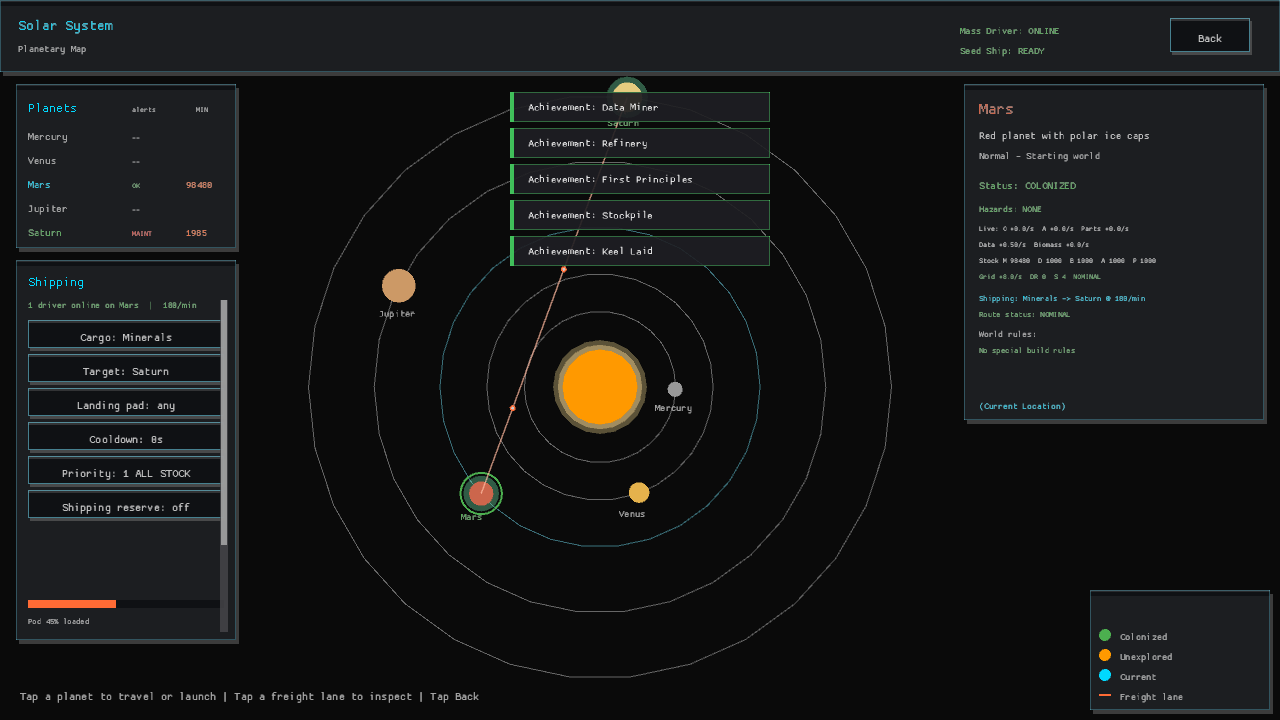
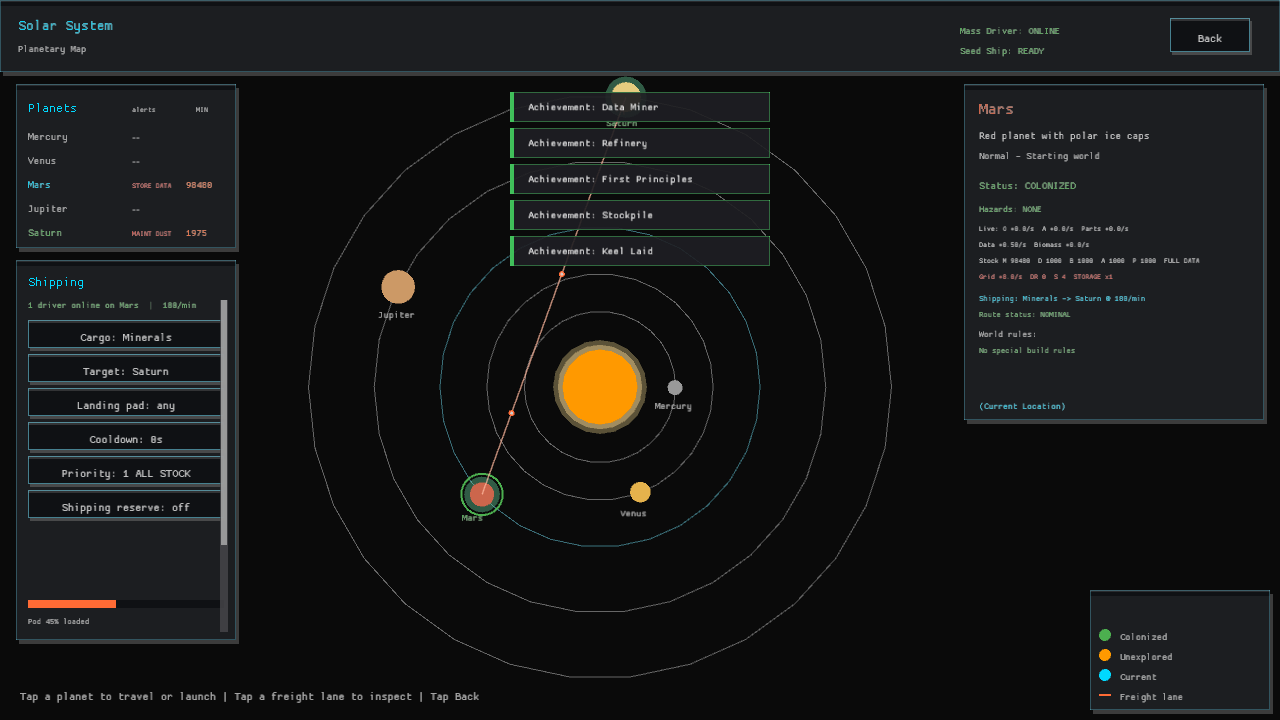
The swarm names what is wearing down a living world (remote maintenance diagnostics)
Remote world rows previously reported only MAINT, leaving the player to open each dossier to learn whether dust or corrosion was the problem. The campaign now carries an `UpkeepAlertCause` alongside `WorldTelemetry`, using the same thresholds as actionable upkeep positions and distinguishing dust, acid, or mixed wear.

The interplanetary list and dossier render `MAINT DUST`, `MAINT ACID`, or `MAINT MIXED`, with the old generic text retained for incomplete snapshots. Focused state, campaign, and map tests cover the classifications and labels; the interplanetary verification capture was refreshed and Preview was published for Windows and WebGL.

diff --git a/src/screens/interplanetary_view/world_dossier.rs b/src/screens/interplanetary_view/world_dossier.rs
@@ -1,7 +1,7 @@
 //! World dossier details shared by the desktop map and portrait map.
 
 use crate::engine::ResourceType;
-use crate::state::{cargo_name, ExportOrder, WorldAlert, WorldTelemetry};
+use crate::state::{cargo_name, ExportOrder, UpkeepAlertCause, WorldAlert, WorldTelemetry};
 use crate::ui::Colors;
 use macroquad::prelude::*;
 use macroquad_toolkit::ui::draw_ui_text;
@@ -52,6 +52,10 @@ pub(super) fn storage_resource_label(resource: Option<ResourceType>) -> Option<&
     }
 }
 
+pub(super) fn maintenance_cause_label(cause: Option<UpkeepAlertCause>) -> Option<&'static str> {
+    cause.map(UpkeepAlertCause::label)
+}
+
 pub(super) fn draw_world_telemetry(telemetry: &WorldTelemetry, x: f32, y: f32) {
     let storage_suffix = storage_resource_label(telemetry.storage_full_resource)
         .map(|label| format!("  FULL {label}"))
@@ -94,8 +98,20 @@ pub(super) fn draw_world_telemetry(telemetry: &WorldTelemetry, x: f32, y: f32) {
     let health = if telemetry.alerts == 0 {
         (WorldAlert::Nominal.label().to_string(), Colors::SUCCESS)
     } else {
+        let detail = if telemetry.alert_kind == WorldAlert::Maintenance {
+            maintenance_cause_label(telemetry.maintenance_cause)
+                .map(|cause| format!(" {cause}"))
+                .unwrap_or_default()
+        } else {
+            String::new()
+        };
         (
-            format!("{} x{}", telemetry.alert_kind.label(), telemetry.alerts),
+            format!(
+                "{}{} x{}",
+                telemetry.alert_kind.label(),
+                detail,
+                telemetry.alerts
+            ),
             Colors::ERROR,
         )
     };
@@ -116,22 +132,19 @@ pub(super) fn world_alert_code(telemetry: Option<WorldTelemetry>) -> String {
         return "--".to_string();
     };
     let code = match telemetry.alert_kind {
-        WorldAlert::Nominal => "OK",
-        WorldAlert::Collapse => "COLL",
-        WorldAlert::Power => "PWR",
-        WorldAlert::Hibernation => "SLEEP",
-        WorldAlert::Stalled => "STALL",
-        WorldAlert::Starved => "INPUT",
-        WorldAlert::Blocked => "FULL",
-        WorldAlert::Storage => "STORE",
-        WorldAlert::Maintenance => "MAINT",
-    };
-    let code = if telemetry.alert_kind == WorldAlert::Storage {
-        storage_resource_label(telemetry.storage_full_resource)
-            .map(|label| format!("{code} {label}"))
-            .unwrap_or_else(|| code.to_string())
-    } else {
-        code.to_string()
+        WorldAlert::Nominal => "OK".to_string(),
+        WorldAlert::Collapse => "COLL".to_string(),
+        WorldAlert::Power => "PWR".to_string(),
+        WorldAlert::Hibernation => "SLEEP".to_string(),
+        WorldAlert::Stalled => "STALL".to_string(),
+        WorldAlert::Starved => "INPUT".to_string(),
+        WorldAlert::Blocked => "FULL".to_string(),
+        WorldAlert::Storage => storage_resource_label(telemetry.storage_full_resource)
+            .map(|label| format!("STORE {label}"))
+            .unwrap_or_else(|| "STORE".to_string()),
+        WorldAlert::Maintenance => maintenance_cause_label(telemetry.maintenance_cause)
+            .map(|cause| format!("MAINT {cause}"))
+            .unwrap_or_else(|| "MAINT".to_string()),
     };
     if telemetry.alerts > 1 {
         format!("{} x{}", code, telemetry.alerts)

diff --git a/src/screens/interplanetary_view/tests.rs b/src/screens/interplanetary_view/tests.rs
@@ -39,7 +39,9 @@ fn shipping_status_distinguishes_absent_and_offline_landing_pads() {
         "2 landing pads online on Saturn"
     );
 }
-use super::world_dossier::{storage_resource_label, world_telemetry_row_y};
+use super::world_dossier::{
+    maintenance_cause_label, storage_resource_label, world_telemetry_row_y,
+};
 use super::{
     shipping_summary, solar_map_layout, world_alert_code, world_rule_lines, world_telemetry_height,
     MIN_SOLAR_MAP_SCALE,
@@ -129,6 +131,7 @@ fn telemetry(alerts: usize, alert_kind: crate::state::WorldAlert) -> crate::stat
         alerts,
         alert_kind,
         storage_full_resource: None,
+        maintenance_cause: None,
     }
 }
 
@@ -151,6 +154,11 @@ fn planet_list_alert_codes_keep_remote_failures_scannable() {
         world_alert_code(Some(telemetry(1, crate::state::WorldAlert::Maintenance))),
         "MAINT"
     );
+    let mut maintenance = telemetry(1, crate::state::WorldAlert::Maintenance);
+    maintenance.maintenance_cause = Some(crate::state::UpkeepAlertCause::Dust);
+    assert_eq!(world_alert_code(Some(maintenance)), "MAINT DUST");
+    maintenance.maintenance_cause = Some(crate::state::UpkeepAlertCause::Mixed);
+    assert_eq!(world_alert_code(Some(maintenance)), "MAINT MIXED");
     assert_eq!(
         world_alert_code(Some(telemetry(1, crate::state::WorldAlert::Storage))),
         "STORE"
@@ -171,6 +179,10 @@ fn planet_list_alert_codes_keep_remote_failures_scannable() {
     assert_eq!(
         storage_resource_label(Some(crate::engine::ResourceType::Energy)),
         None
+    );
+    assert_eq!(
+        maintenance_cause_label(Some(crate::state::UpkeepAlertCause::Acid)),
+        Some("ACID")
     );
 }
 

diff --git a/src/state/alerts.rs b/src/state/alerts.rs
@@ -14,7 +14,47 @@ use super::PlanetState;
 /// warning point as the network's dust leak response.
 const CORROSION_ALERT_AT: f32 = 75.0;
 
+#[derive(Debug, Clone, Copy, PartialEq, Eq)]
+pub enum UpkeepAlertCause {
+    Dust,
+    Acid,
+    Mixed,
+}
+
+impl UpkeepAlertCause {
+    pub fn label(self) -> &'static str {
+        match self {
+            Self::Dust => "DUST",
+            Self::Acid => "ACID",
+            Self::Mixed => "MIXED",
+        }
+    }
+}
+
 impl PlanetState {
+    /// Explain whether a remote maintenance alert is caused by dust, acid, or
+    /// both kinds of wear. This uses the same thresholds as the actionable
+    /// upkeep positions so the map and dossier cannot disagree.
+    pub fn upkeep_alert_cause(&self) -> Option<UpkeepAlertCause> {
+        let response = self.resolved_dust_response();
+        let dust_threshold = response.efficiency_threshold.clamp(0.0, 100.0);
+        let mut dust = false;
+        let mut acid = false;
+        for (_, tile) in self.grid.iter_tiles() {
+            let Some(building) = tile.building.as_ref() else {
+                continue;
+            };
+            dust |= building.dust >= dust_threshold;
+            acid |= building.acid_wear >= CORROSION_ALERT_AT;
+        }
+        match (dust, acid) {
+            (true, true) => Some(UpkeepAlertCause::Mixed),
+            (true, false) => Some(UpkeepAlertCause::Dust),
+            (false, true) => Some(UpkeepAlertCause::Acid),
+            (false, false) => None,
+        }
+    }
+
     /// Return buildings whose upkeep has started to affect the colony.
     ///
     /// The map already paints lower wear as a warning, but a player needs a

diff --git a/src/state/campaign.rs b/src/state/campaign.rs
@@ -13,6 +13,7 @@ use crate::directives::{pick_directive, Directive};
 use crate::engine::{ResearchTree, ResourceType, StatId};
 
 use super::game_state::{PlanetState, ResearchProgress};
+use super::UpkeepAlertCause;
 
 pub const PLANET_COUNT: usize = 5;
 /// Mars, per the GDD's Zone 1.
@@ -82,6 +83,8 @@ pub struct WorldTelemetry {
     /// The alert count still reports saturation as one distinct condition even
     /// when more than one stored resource is full.
     pub storage_full_resource: Option<ResourceType>,
+    /// Whether remote maintenance is caused by dust, corrosion, or both.
+    pub maintenance_cause: Option<UpkeepAlertCause>,
 }
 
 /// Step length for worlds the player is not looking at. Coarse on purpose: a
@@ -397,7 +400,8 @@ impl Campaign {
             (rate > 0.0 && planet.resource_is_full(resource)).then_some(resource)
         });
         let storage_full = storage_full_resource.is_some();
-        let maintenance = !planet.upkeep_alert_positions().is_empty();
+        let maintenance_cause = planet.upkeep_alert_cause();
+        let maintenance = maintenance_cause.is_some();
         let alerts = usize::from(power_alert)
             + usize::from(hibernating)
             + usize::from(collapse)
@@ -442,6 +446,7 @@ impl Campaign {
             alerts,
             alert_kind,
             storage_full_resource,
+            maintenance_cause,
         })
     }
 

diff --git a/src/state/alerts/tests.rs b/src/state/alerts/tests.rs
@@ -156,4 +156,36 @@ fn corrosion_joins_the_upkeep_alert_before_network_failure() {
         .acid_wear = 75.0;
 
     assert_eq!(state.upkeep_alert_positions(), vec![core]);
+    assert_eq!(state.upkeep_alert_cause(), Some(UpkeepAlertCause::Acid));
+}
+
+#[test]
+fn upkeep_alert_cause_reports_dust_and_mixed_wear() {
+    let mut state = state();
+    let core = state.grid.find_core().expect("generated Core");
+    let dust_threshold = state.resolved_dust_response().efficiency_threshold;
+
+    {
+        let core_building = state
+            .grid
+            .get_mut(core)
+            .expect("core tile")
+            .building
+            .as_mut()
+            .expect("core building");
+        core_building.dust = dust_threshold;
+    }
+    assert_eq!(state.upkeep_alert_cause(), Some(UpkeepAlertCause::Dust));
+
+    {
+        let core_building = state
+            .grid
+            .get_mut(core)
+            .expect("core tile")
+            .building
+            .as_mut()
+            .expect("core building");
+        core_building.acid_wear = 75.0;
+    }
+    assert_eq!(state.upkeep_alert_cause(), Some(UpkeepAlertCause::Mixed));
 }

diff --git a/src/state/campaign/tests.rs b/src/state/campaign/tests.rs
@@ -190,6 +190,10 @@ fn the_solar_map_reports_upkeep_degradation_on_a_remote_world() {
     let telemetry = campaign.world_telemetry(0).unwrap();
     assert_eq!(telemetry.alerts, 1);
     assert_eq!(telemetry.alert_kind, WorldAlert::Maintenance);
+    assert_eq!(
+        telemetry.maintenance_cause,
+        Some(crate::state::UpkeepAlertCause::Dust)
+    );
 }
 
 #[test]

diff --git a/src/state.rs b/src/state.rs
@@ -34,6 +34,7 @@ mod stat_sheet;
 mod tutorial;
 
 pub use achievements::*;
+pub use alerts::UpkeepAlertCause;
 pub use audio::*;
 pub use camera::*;
 pub use campaign::*;

diff --git a/README.md b/README.md
@@ -61,6 +61,7 @@ The top resource cards show live rates from active drills, the Core and Server
 Banks, and biomass harvesters. Every stored resource also shows its live cap;
 when production has nowhere to go, the rate changes to FULL so the swarm can
 expand storage or redirect the line.
+Remote maintenance rows also name `MAINT DUST`, `MAINT ACID`, or `MAINT MIXED`.
 The desktop Operations panel's Achievements row is touch-sized as well as
 mouse-clickable, so Records remains reachable without a physical keyboard.
 Records keeps achievements, directive progress, and the durable event log in
